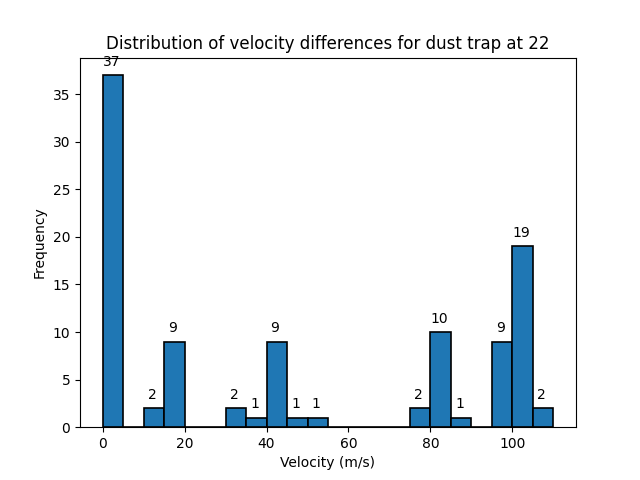
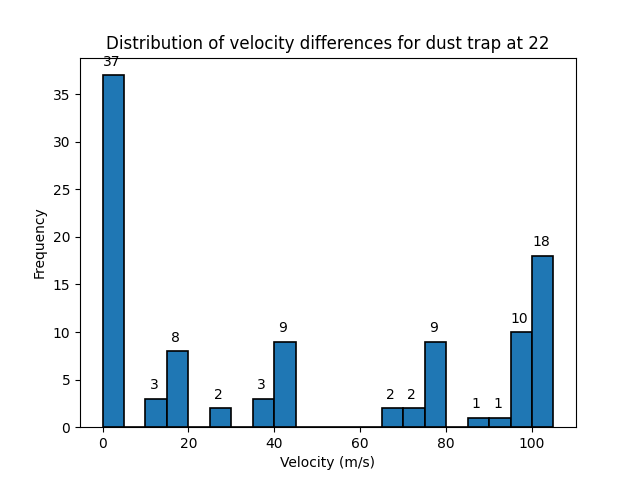
added argparse to hist.py

diff --git a/hist.py b/hist.py
@@ -2,6 +2,7 @@ import numpy as np
 import matplotlib.pyplot as plt 
 from find_ring import load_dust_outputs, load_gas_outputs, vdiff_wavg, get_dust_trap, get_ring_param, cell_volume
 from scipy.spatial.distance import squareform
+import argparse
 
 
 def vel_hist(vdiffs, dt, path):
@@ -89,20 +90,33 @@ def vel_contour(vdiffs, dt, n_species, path):
 
 def main():
 
-	path = "../fargo3d/outputs/fargo_multifluid/" 		# Path of simulation output files
-	pic_path = "temp_pics/" 							# Path where the plots are to be saved
-	output_number = 8									# Number to be considered for the simulation output files
-	species_number = 15 								# Total number of dust species
-	p_bumps = 1 										# Number of dust traps to be considered
-	r_in = 0.4
-	r_out = 2.5
-	Ny = 128
+	parser = argparse.ArgumentParser(description = 'Calculates the relative velocities of gas and dust in the dust trap of a protodisk')
+
+	parser.add_argument("-p", "--path", help = "Path of the simulation output files", default = "../fargo3d/outputs/fargo_multifluid/")
+	parser.add_argument("-pp", "--pic_path", help = "Path where the plots are to be saved", default = "temp_pics/")
+	parser.add_argument("-o", "--output", help = "Number to be considered for the simulation output files", default = 7)
+	parser.add_argument("-s", "--species", help = "Total number of dust species", default = 15)
+	parser.add_argument("-b", "--p_bumps", help = "Number of dust traps to be considered", default = 1)
+	parser.add_argument("--rin", help = "Inner simulation radius", default = 0.4)
+	parser.add_argument("--rout", help = "Outer simulation radius", default = 2.5)
+	parser.add_argument("--ny", help = "Number of radial zones", default = 128)
+
+	args = parser.parse_args()
+
+	path = args.path 
+	pic_path = args.pic_path
+	output_number = args.output 
+	species_number = args.species 
+	p_bumps = args.p_bumps 
+	rin = args.rin 
+	rout = args.rout 
+	Ny = args.ny
 
 	r, phi, sigma, vel, energy = load_dust_outputs(path, species_number, output_number)
 	gas_sig, gas_vel, gas_energy = load_gas_outputs(r, phi, path, output_number)
 
 	# Determining location of dust traps
-	dt = get_dust_trap(sigma, pic_path, species_number, r_in, r_out, Ny, p_bumps=p_bumps)
+	dt = get_dust_trap(sigma, pic_path, species_number, rin, rout, Ny, p_bumps=p_bumps)
 
 	# Clear the radial surface density plot
 	plt.clf()
